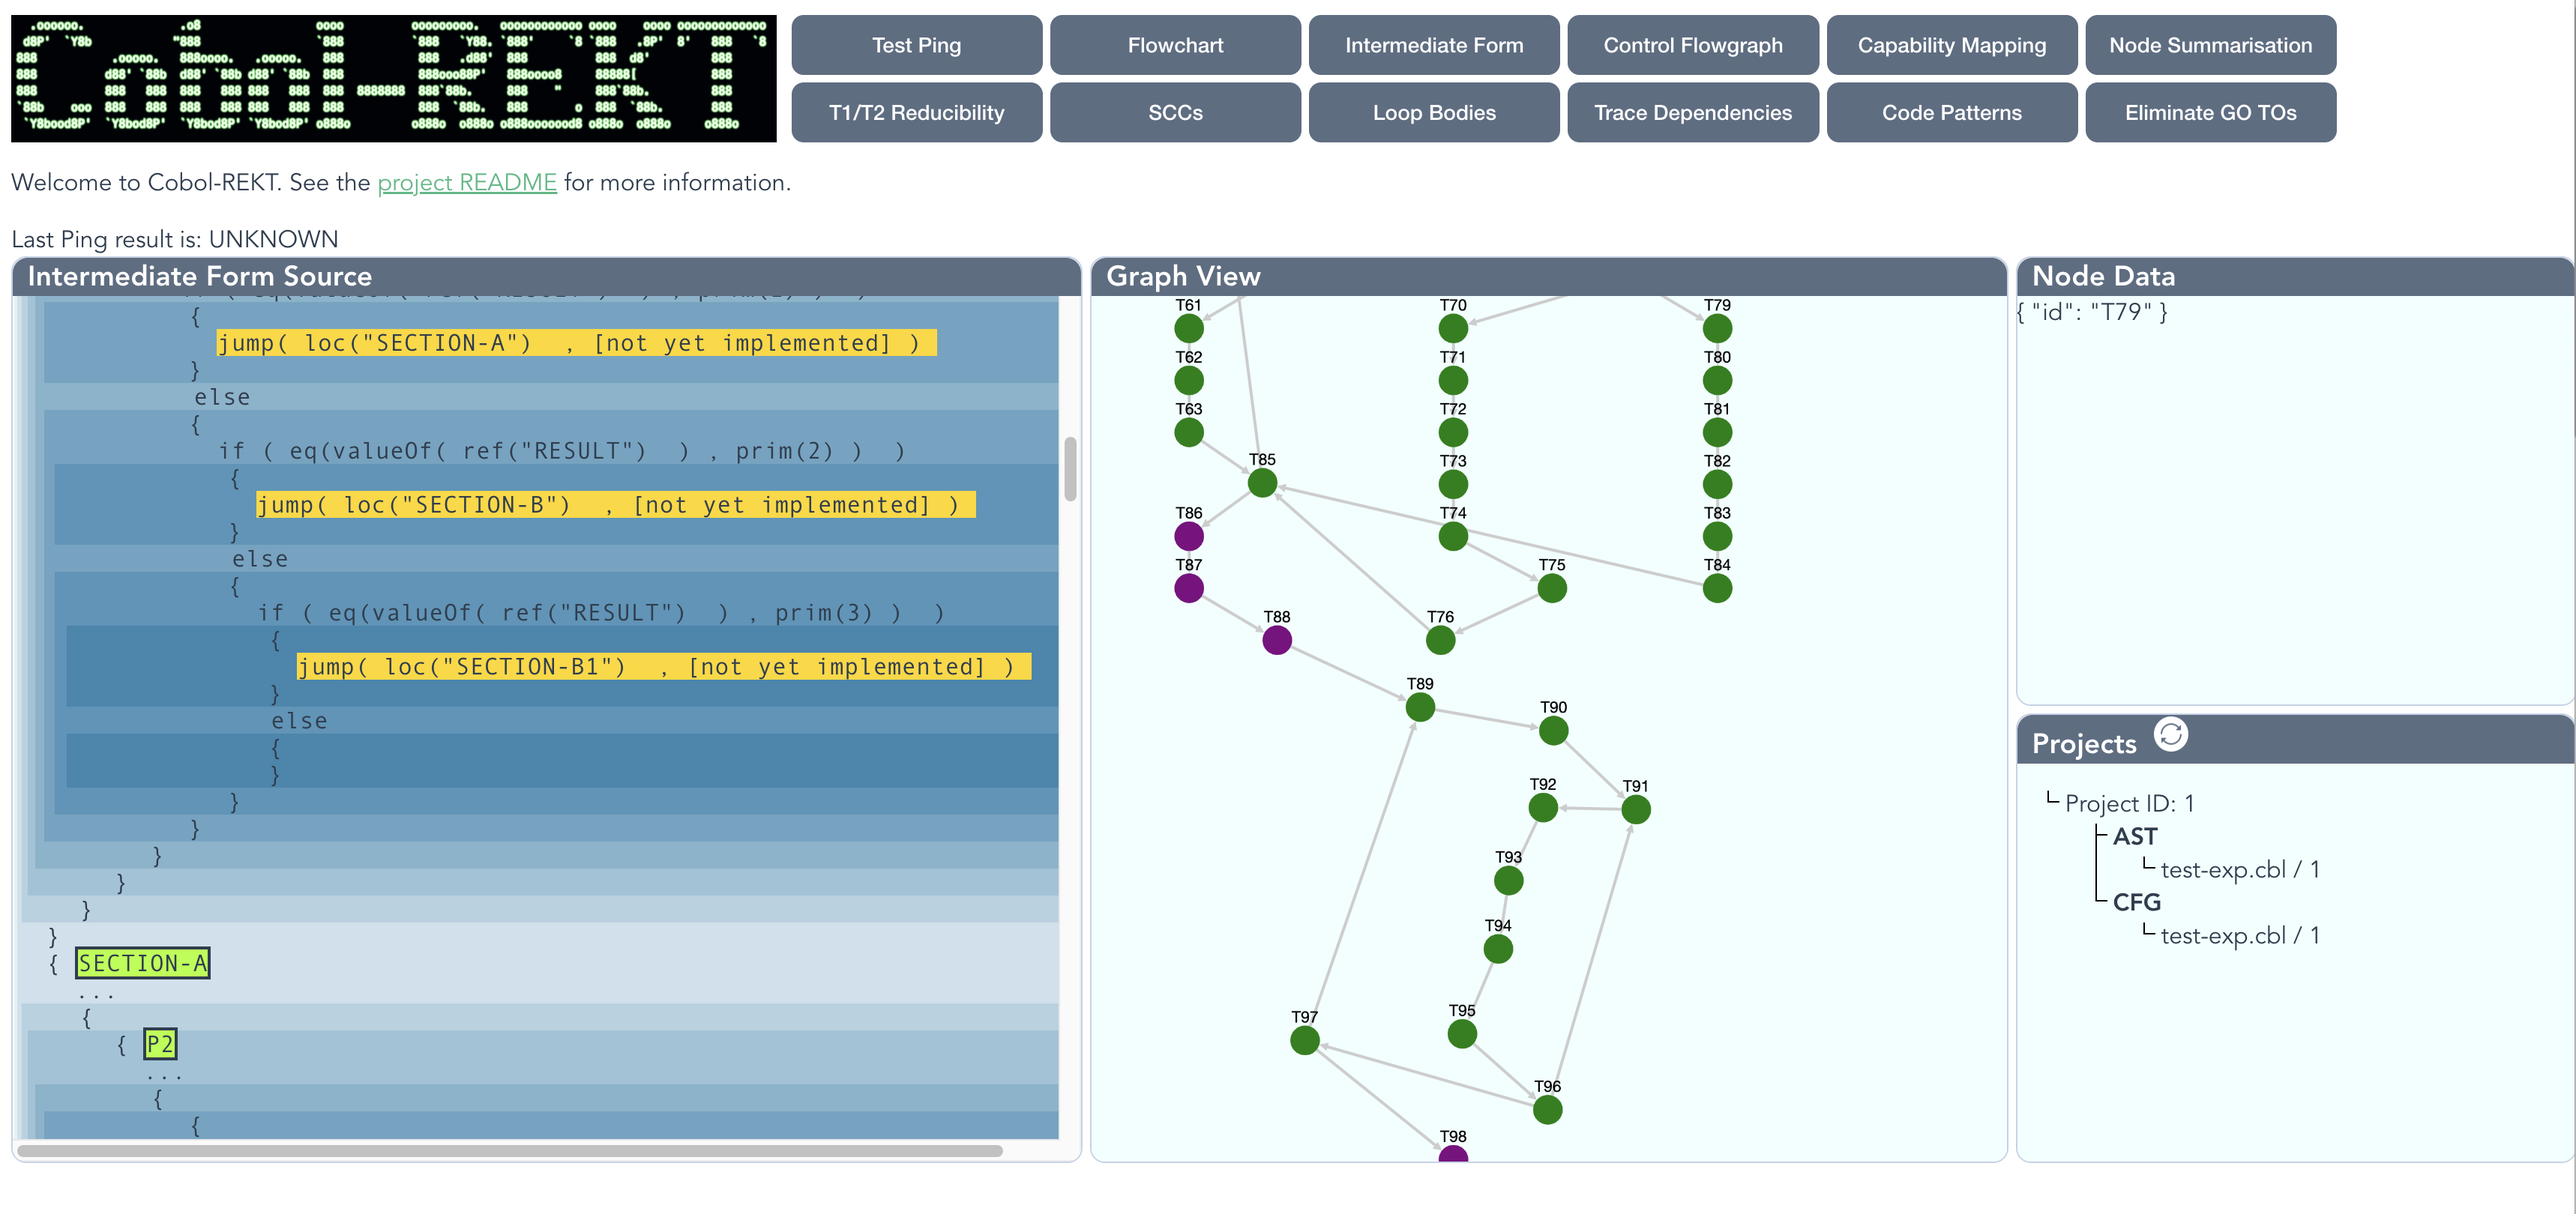
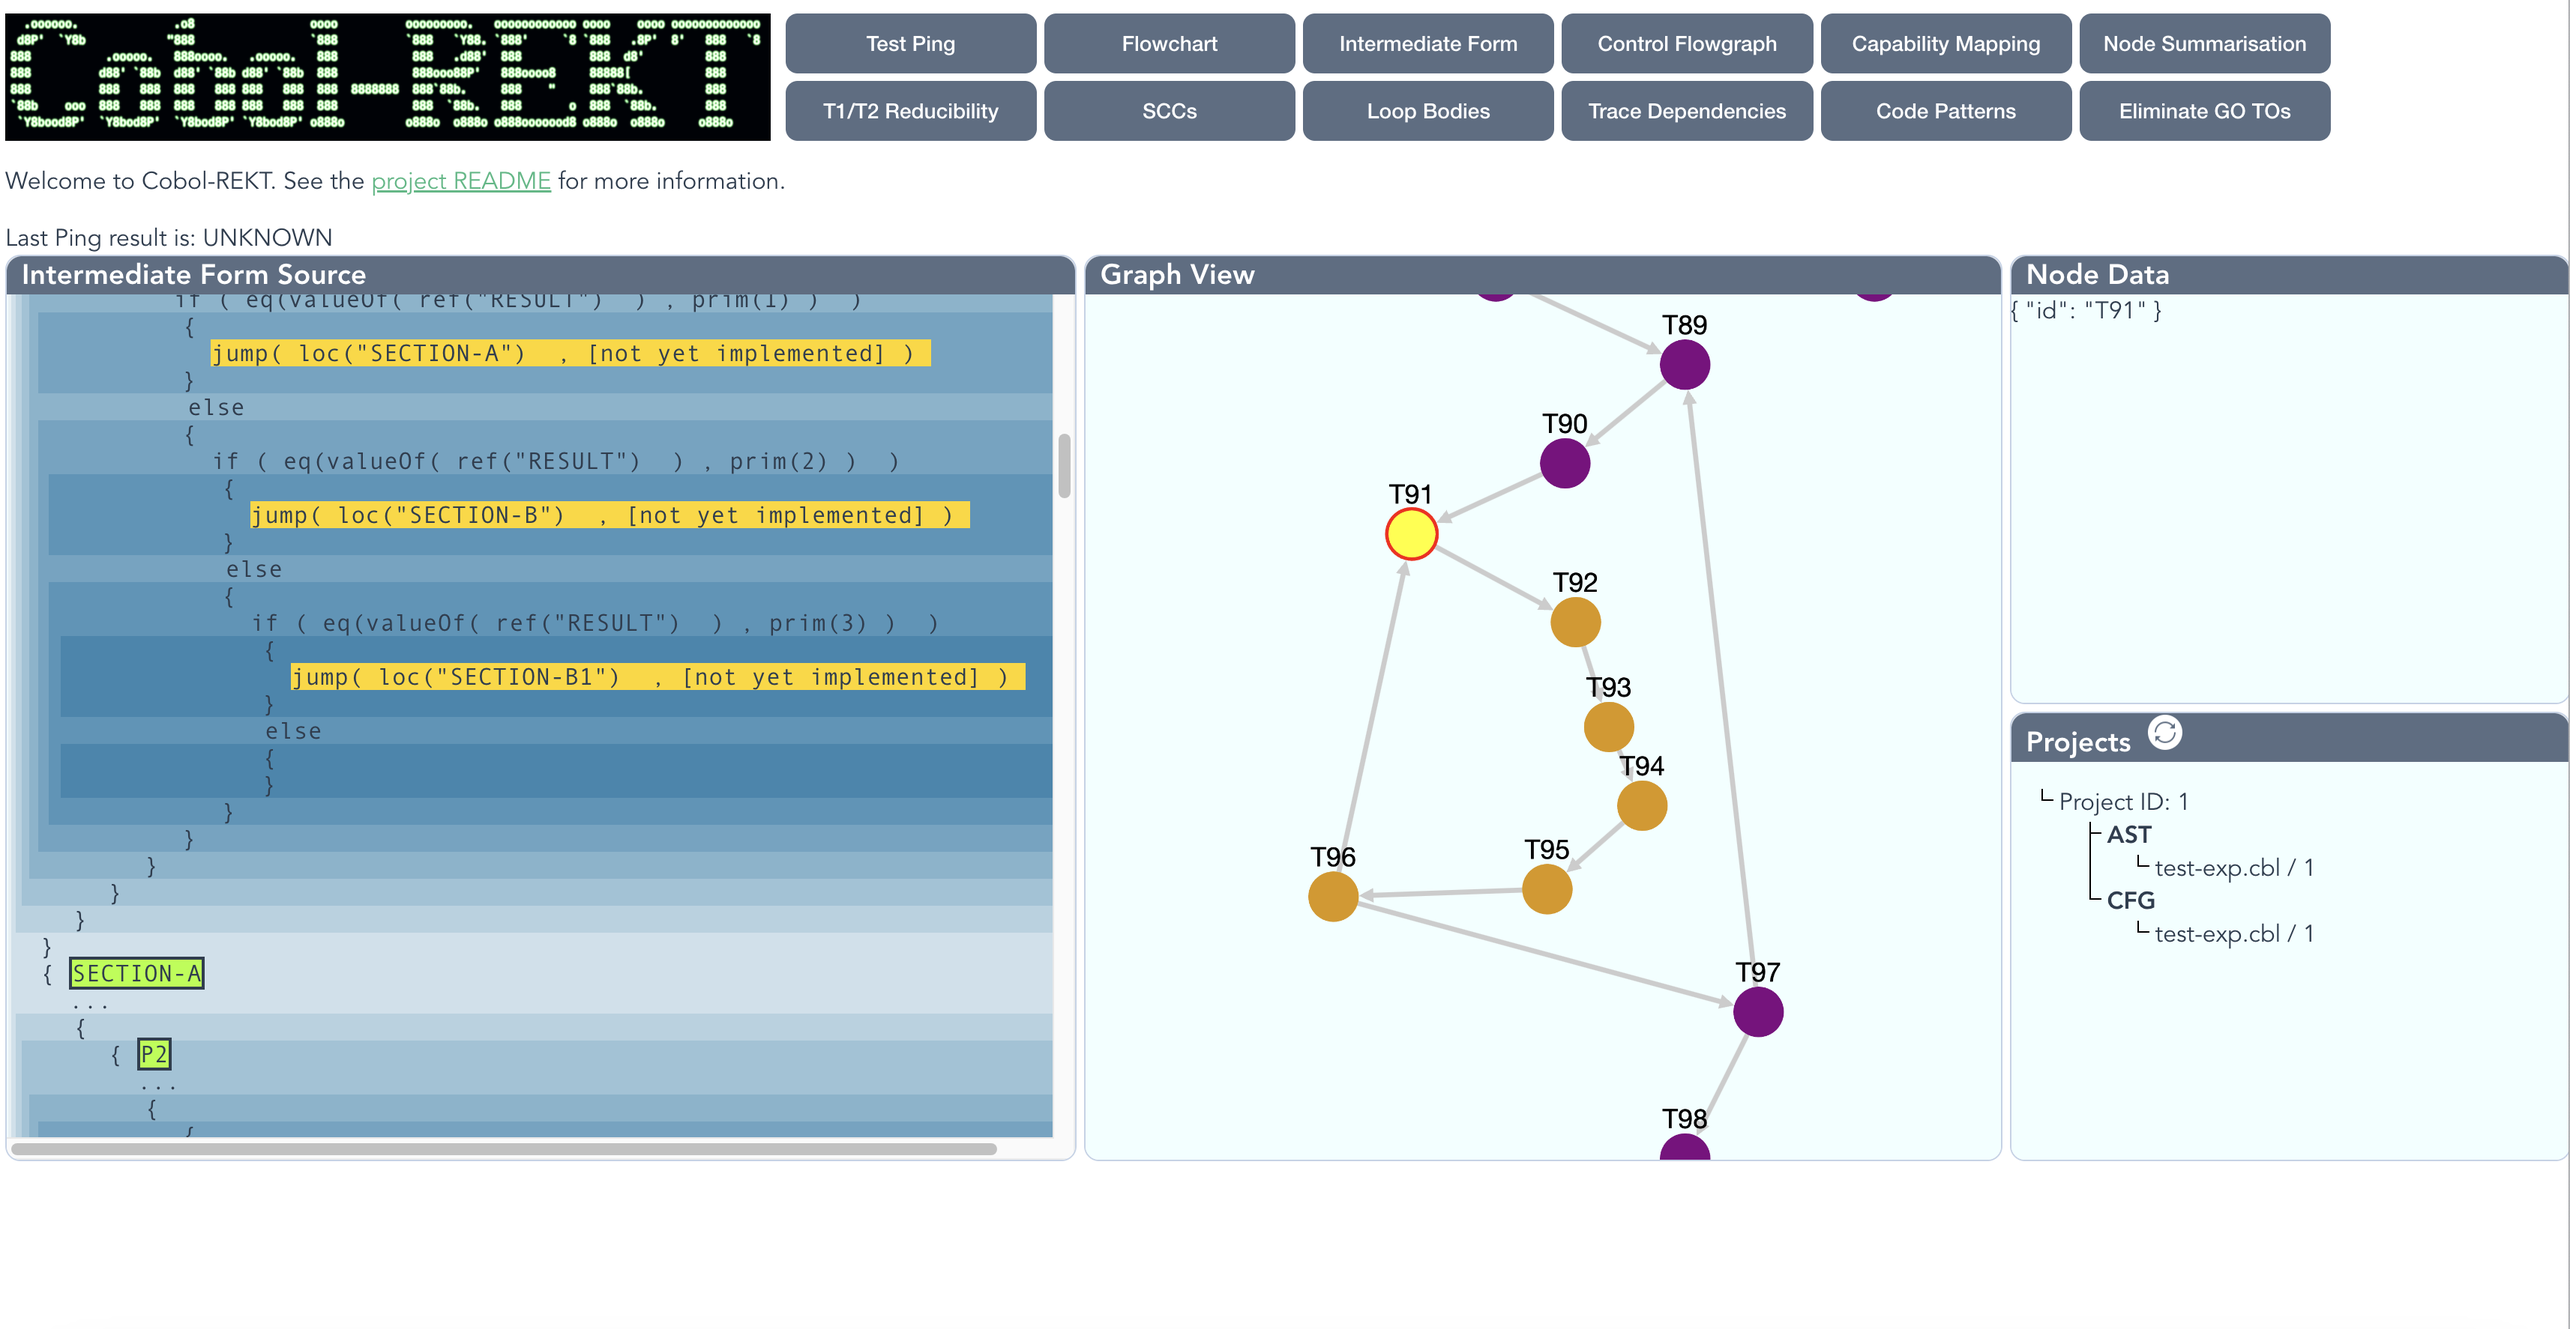
Random colors for each loop body and updating README

diff --git a/smojol-app/cobol-lekt/src/components/GraphView.vue b/smojol-app/cobol-lekt/src/components/GraphView.vue
@@ -6,7 +6,7 @@ import {asCytoscapeTree, TreeModelNode, TranspilerNodeChildrenAccess} from "@/ts
 import {defineComponent, PropType, ref} from "vue";
 import {asCytoscapeDigraph, Digraph} from "@/ts/Digraph";
 import {CytoModel} from "@/ts/CytoscapeTypes";
-import {MutableCenter} from "@/ts/FlippableId";
+import {MutableCenter, randomColour} from "@/ts/FlippableId";
 import {LoopBody, LoopNode} from "@/ts/ContractTypes";
 
 export default defineComponent({
@@ -55,10 +55,17 @@ export default defineComponent({
           this.cy.center(elementById);
           elementById.select();
         },
-        loopBodies(newValue: LoopBody[]) {
-          const loopNodes = newValue.flatMap(body => body.loopNodes);
-          const allLoopNodeIDs = loopNodes.map(ln => this.cy.getElementById(ln.id));
-          allLoopNodeIDs.forEach(ele => ele.style("background-color", "green"))
+        loopBodies(loopBodies: LoopBody[]) {
+          // const l = [loopBodies[2]];
+          loopBodies.forEach(body => {
+            const bodyColour = randomColour();
+            const allLoopNodeIDs = body.loopNodes.map(ln => this.cy.getElementById(ln.id));
+            allLoopNodeIDs.forEach(ele => ele.style("background-color", bodyColour));
+          })
+          // const loopNodes = loopBodies.flatMap(body => body.loopNodes);
+          //
+          // const allLoopNodeIDs = loopNodes.map(ln => this.cy.getElementById(ln.id));
+          // allLoopNodeIDs.forEach(ele => ele.style("background-color", "green"))
         }
       },
       methods: {

diff --git a/smojol-app/cobol-lekt/src/ts/FlippableId.ts b/smojol-app/cobol-lekt/src/ts/FlippableId.ts
@@ -1,5 +1,9 @@
 export type MutableCenter = {id: string, flip: boolean};
 
-export function flip(id: string, node: MutableCenter): MutableCenter {
-    return {id, flip: node ? !node.flip : true};
+export function randomColour() {
+    const hue = Math.floor(Math.random() * 360);
+    const saturation = 100;
+    const lightness = Math.floor(Math.random() * 50 + 25); // Lightness between 25 and 75 for vibrancy
+
+    return `hsl(${hue}, ${saturation}%, ${lightness}%)`;
 }

diff --git a/README.md b/README.md
@@ -1120,10 +1120,15 @@ Some screenshots:
 
 #### Loop Bodies with Control Flowgraph
 
-This shows nodes which comprise natural loops (both reducible and irreducible) highlighted in green as part of the Control Flowgraph.
+This shows nodes which comprise natural loops (both reducible and irreducible) highlighted in amber as part of the Control Flowgraph.
 
 ![Loop Bodies in CFG](documentation/demo-app-cfg-loop-bodies.png)
 
+#### Nested Loop Bodies with Control Flowgraph
+
+This shows an example of nested natural loops. The deep purple nodes at the bottom form an inner loop which is in turn nested inside a bigger loop consisting of nodes highlighted in green (and of course, the nodes of the inner loop).
+
+![Nested Loop Bodies in CFG](documentation/demo-app-cfg-nested-loop-bodies.png)
 
 The rest of this file is mostly technical notes for my personal documentation.
 
